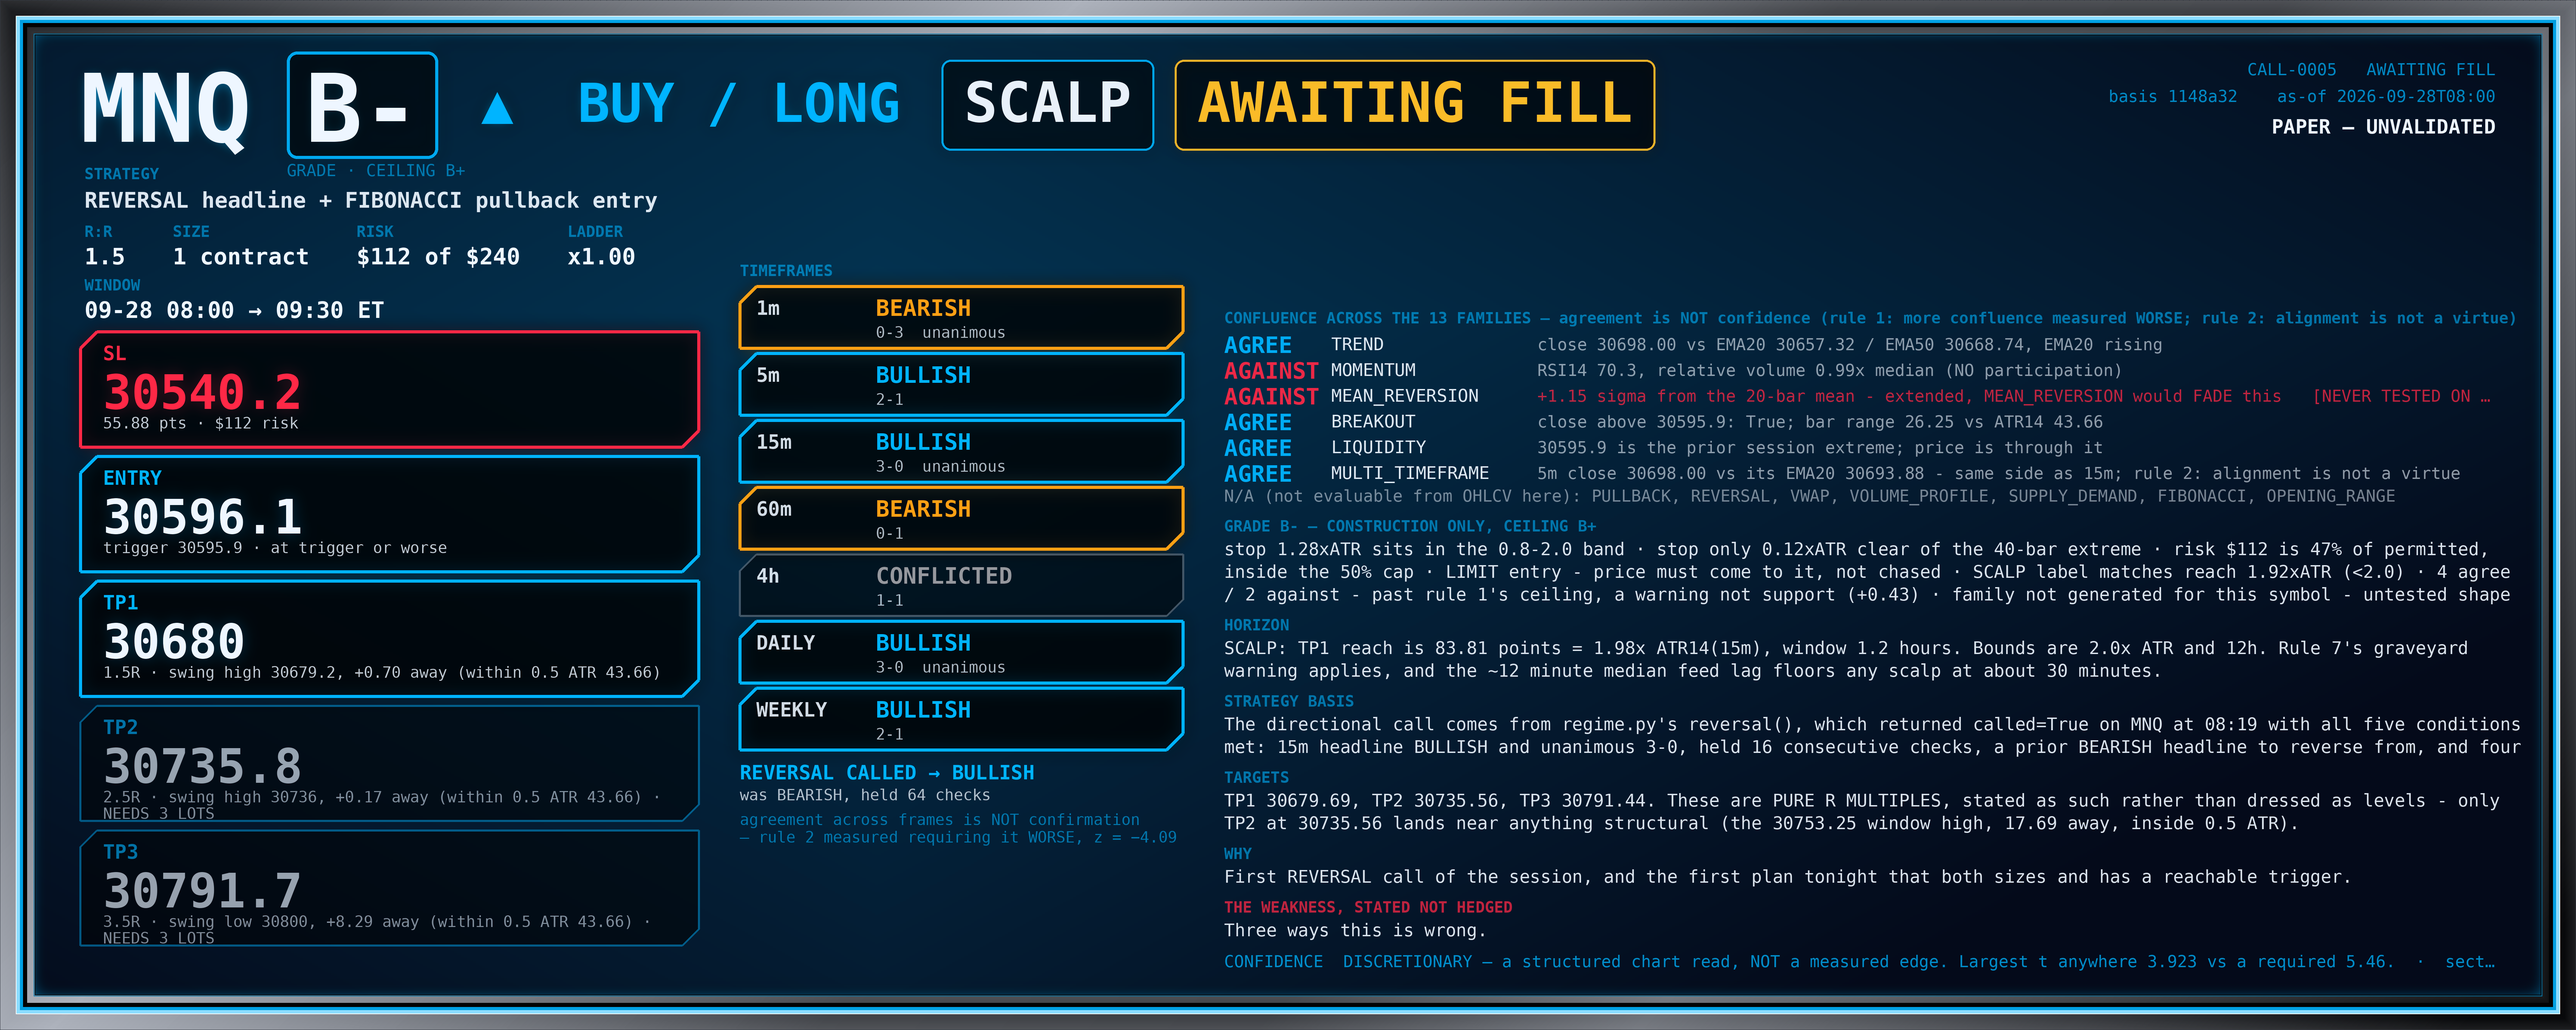
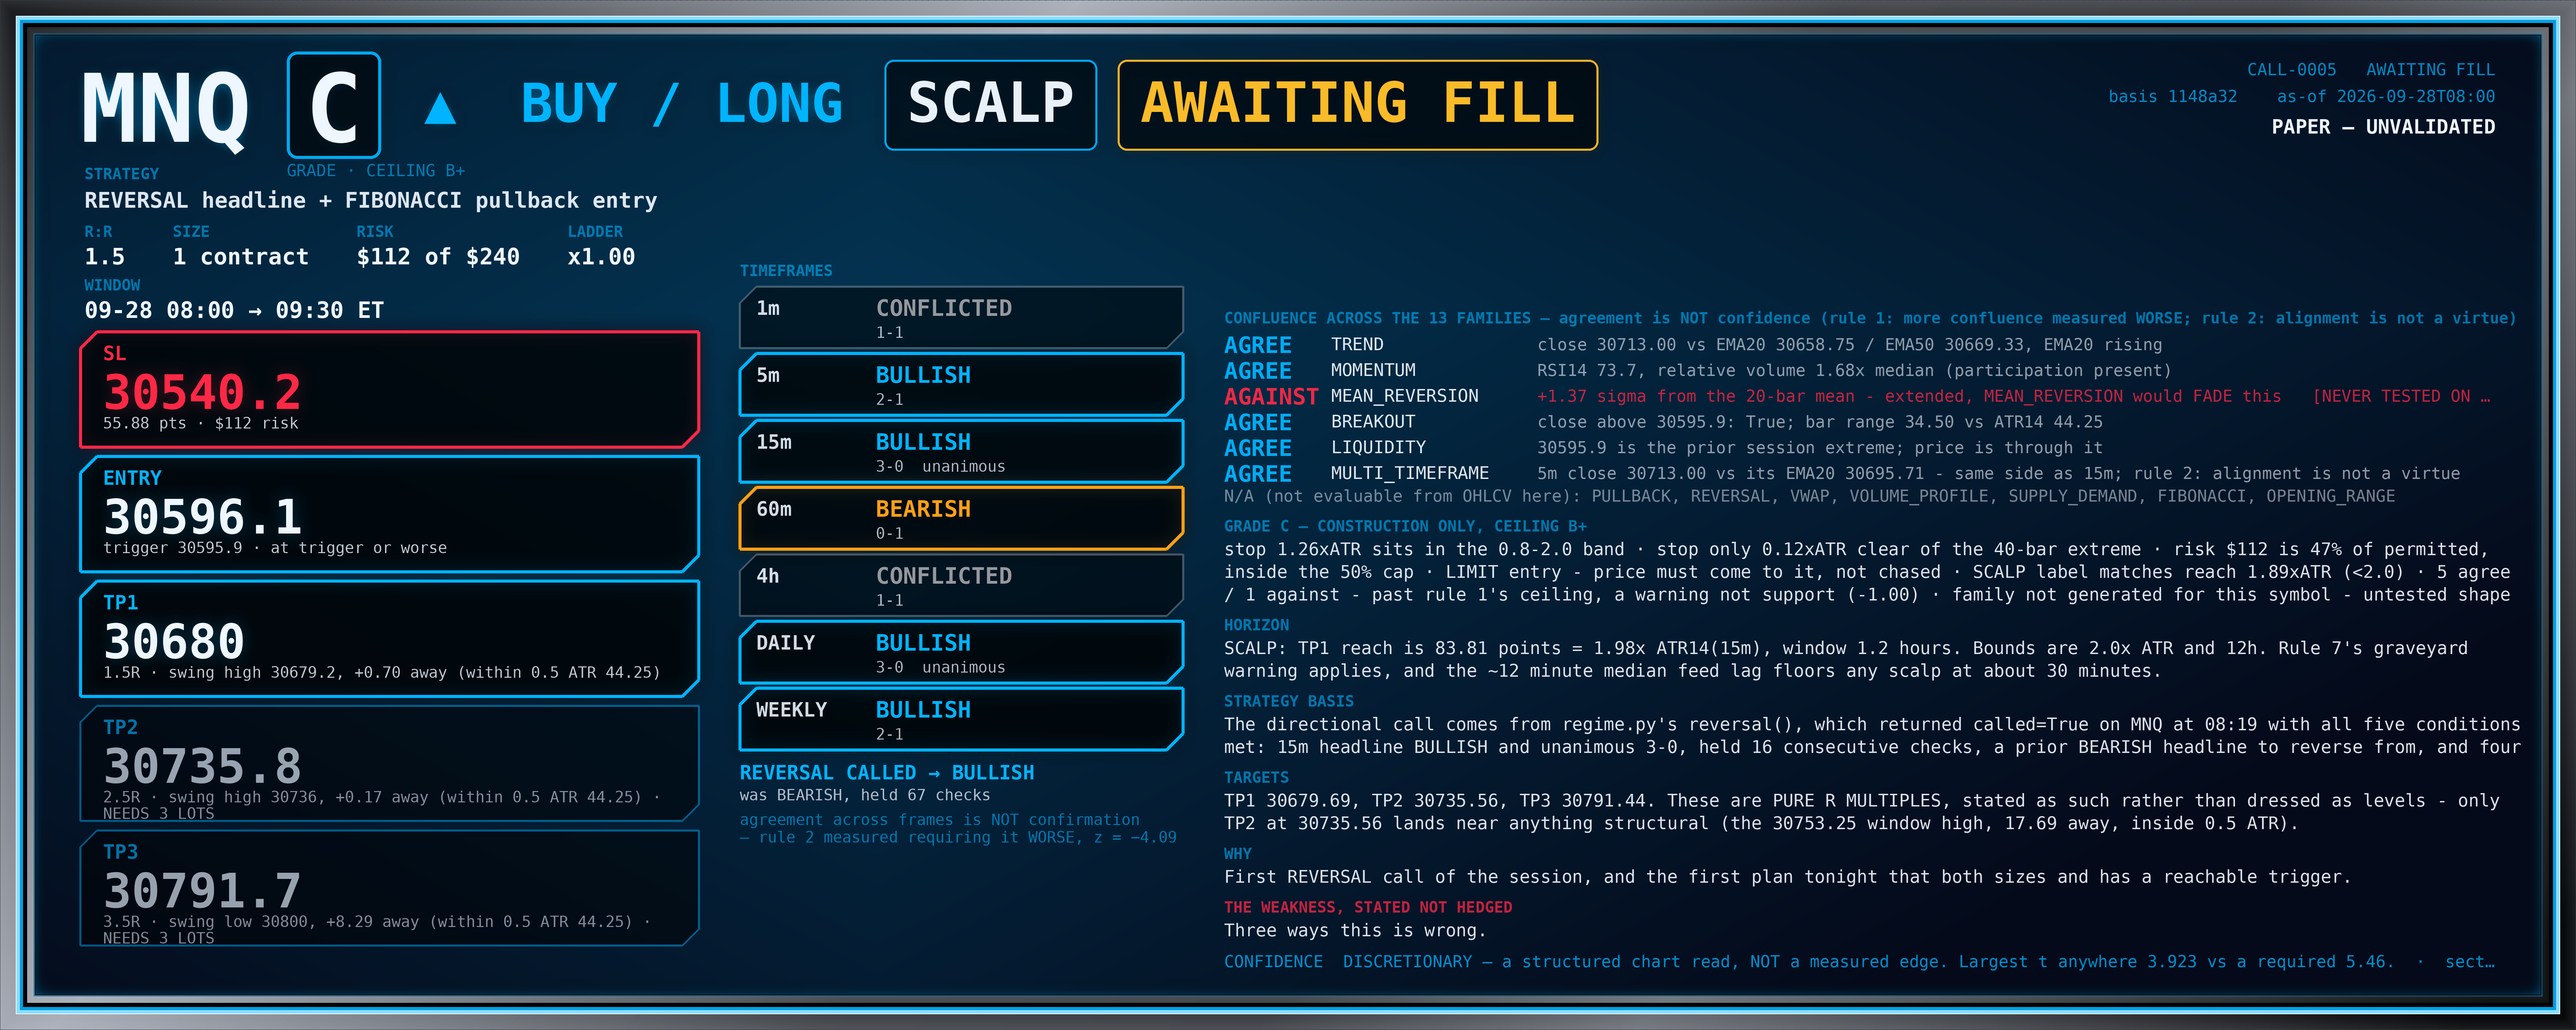
CALL desk: N171 - the excluded position is at a new high of +$103 with its target 3.80 from the low; exclusion restated at the largest number yet
MGC 5m 09:25 bar h 4181.60 l 4174.20 c 4176.10. The excluded CALL-0002 short is +10.30 points /
+$103.00 unrealised, a new high, with TP1 4170.40 now 5.70 from the close and 3.80 from the bar's low.

Fifth reading at which I have restated N155's exclusion, and the largest: 08:47 +$38 declared, 08:52
+$95 restated, 09:09 $0 restated at flat, 09:14 +$45 restated, 09:38 +$103 restated. The reason has
not changed and cannot - the fill is 102.70 points from the specified entry on a plan blind for six
hours because its created_bar_ts was future-dated and off-grid. If MGC trades 4170.40 the resolver
closes it at +1.6R / +$160 and writes that into state.json, and the desk's measured record will still
read 0 closed trades, win rate undefined, drawdown $0.00, because a trade nobody could have taken is
not a result.

Being exact about the uncomfortable part rather than leaving it implied: this position is going to make
money, and the reason it is going to make money is that the plan was broken. A short entered 102.70
points below its intended trigger, into a symbol that has since fallen another 16 points, is profitable
by accident of the defect. That is the strongest argument FOR the exclusion, not against it.

MGC: location 5.8% of [4172.60, 4233.20], every frame bearish with 15m and 60m both 0-3 unanimous,
trend BEAR on a falling EMA20, structure BEAR, and its 09:25 low of 4174.20 is 1.60 above the session
low of 4172.60.
[…]

diff --git a/workspace/paper/CALL/NOTES.md b/workspace/paper/CALL/NOTES.md
@@ -6079,3 +6079,42 @@ not in doubt; only its timing is.
 
 No new call. MNQ at 74.5% inside a called reversal with an unreachable plan is not a new setup, and MGC's path is
 closed. 1 open (excluded), 2 pending; equity $50,000.00, drawdown $0.00, full $2,800 to the absorbing state.
+
+## N171 — 09:38: the excluded position is at a new high of +$103 with its target 3.80 from the low. Restating the exclusion at the largest number yet
+
+MGC 5m `09:25` bar `h 4181.60 l 4174.20 c 4176.10`. **The excluded CALL-0002 short is now +10.30 points /
++$103.00 unrealised** — a new high for it — and TP1 at 4170.40 is **5.70 from the close and 3.80 from the bar's
+low**.
+
+**This is now the fifth reading at which I have restated N155's exclusion, and it is the largest:**
+
+| time | unrealised | exclusion |
+|---|---|---|
+| 08:47 | +3.80 / +$38.00 | declared |
+| 08:52 | +9.50 / +$95.00 | restated |
+| 09:09 | 0.00 / $0.00 | restated **at flat** |
+| 09:14 | +4.50 / +$45.00 | restated |
+| 09:38 | **+10.30 / +$103.00** | **restated** |
+
+The reason has not changed and cannot: **the fill is 102.70 points from the specified entry, on a plan that was
+blind for six hours because its `created_bar_ts` was future-dated and off-grid.** If MGC trades 4170.40 the
+resolver will close it at **+1.6R / +$160** and write that into `state.json` — and the desk's measured record will
+still read **0 closed trades, win rate undefined, drawdown $0.00**, because a trade nobody could have taken is
+not a result.
+
+I want to be exact about the uncomfortable part rather than leave it implied: **this position is going to make
+money, and the reason it is going to make money is that the plan was broken.** A short entered 102.70 points
+below its intended trigger, into a symbol that has since fallen another 16 points, is profitable by accident of
+the defect. That is the single strongest argument for the exclusion, not against it.
+
+MGC: location **5.8%** of [4172.60, 4233.20], every frame bearish, 15m and 60m both 0-3 unanimous, trend BEAR
+(4176.10 < EMA20 4186.37, falling), structure BEAR. Its 09:25 low of 4174.20 is 1.60 above the session low of
+4172.60.
+
+MNQ: **REVERSAL still called, `held 66`**; 1m has gone CONFLICTED 1-1, 5m BULL 2-1, 15m BULL 3-0 unanimous, 60m
+BEAR 0-1, 4h CONFLICTED, DAILY BULL 3-0 unanimous. Trend BULL (30713.00 > EMA20 30657.11, rising), structure BULL,
+location **81.4%** of [30535.00, 30753.75] — the pullback has reversed and it is heading back up. **CALL-0005's
+limit is 101.62 above the newest low** and its expiry bar has passed on the clock; the resolver writes the outcome
+on the `09:45` bar, in hand around 10:01.
+
+No new call. 1 open (excluded), 2 pending; equity $50,000.00, drawdown $0.00, full $2,800 to the absorbing state.
